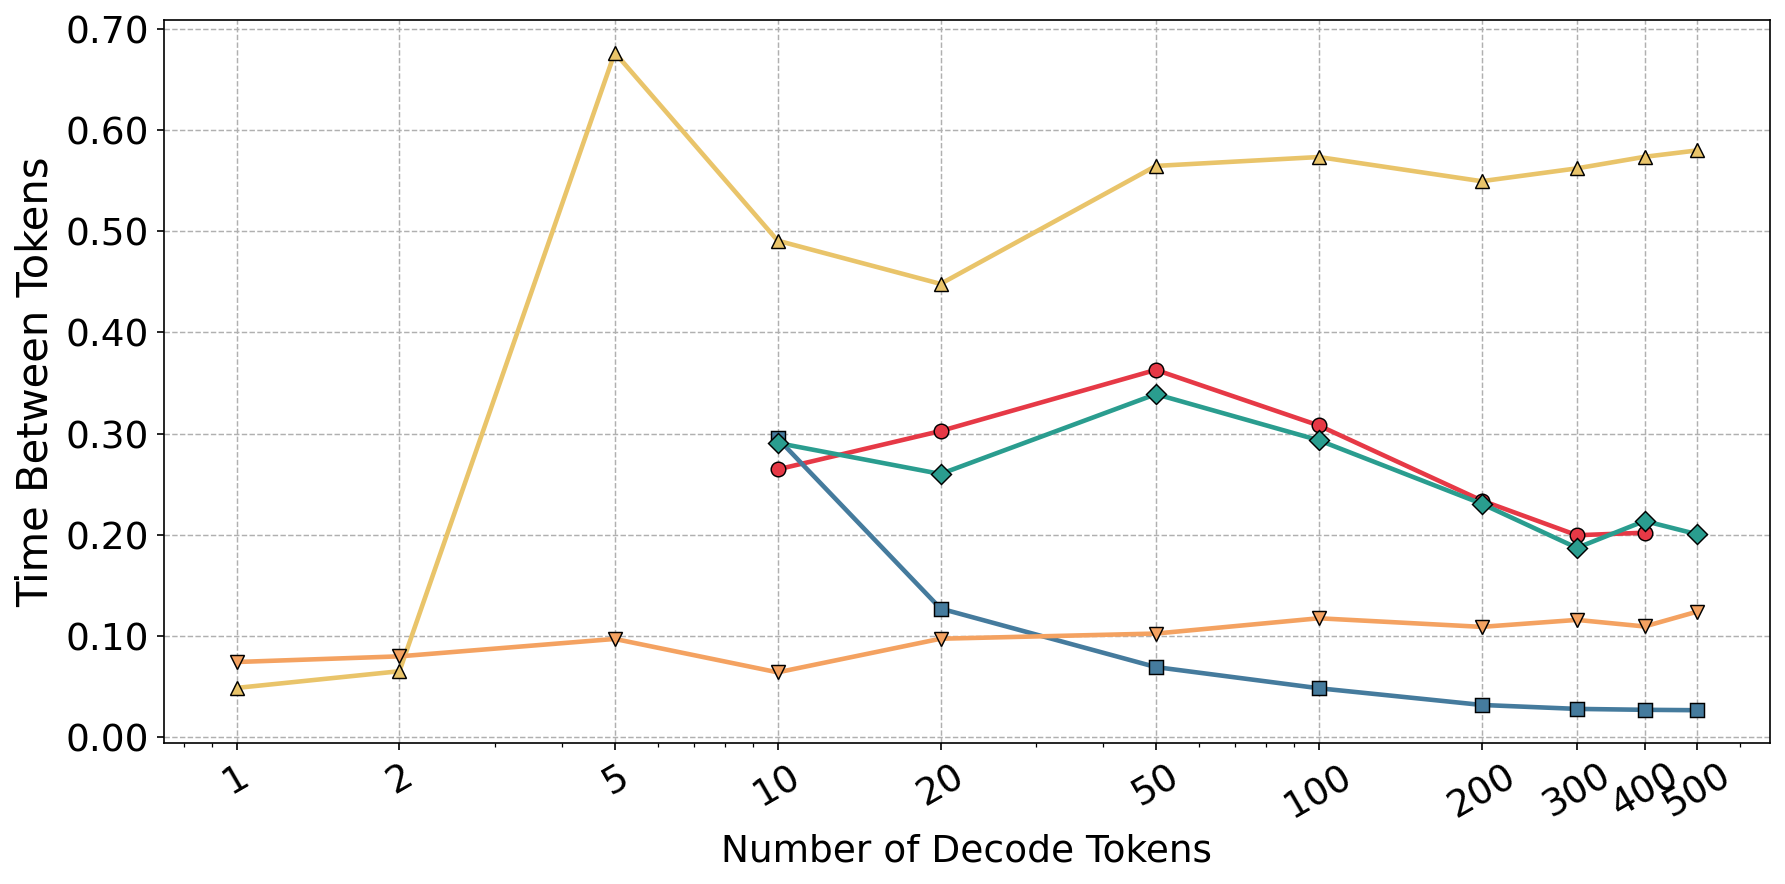
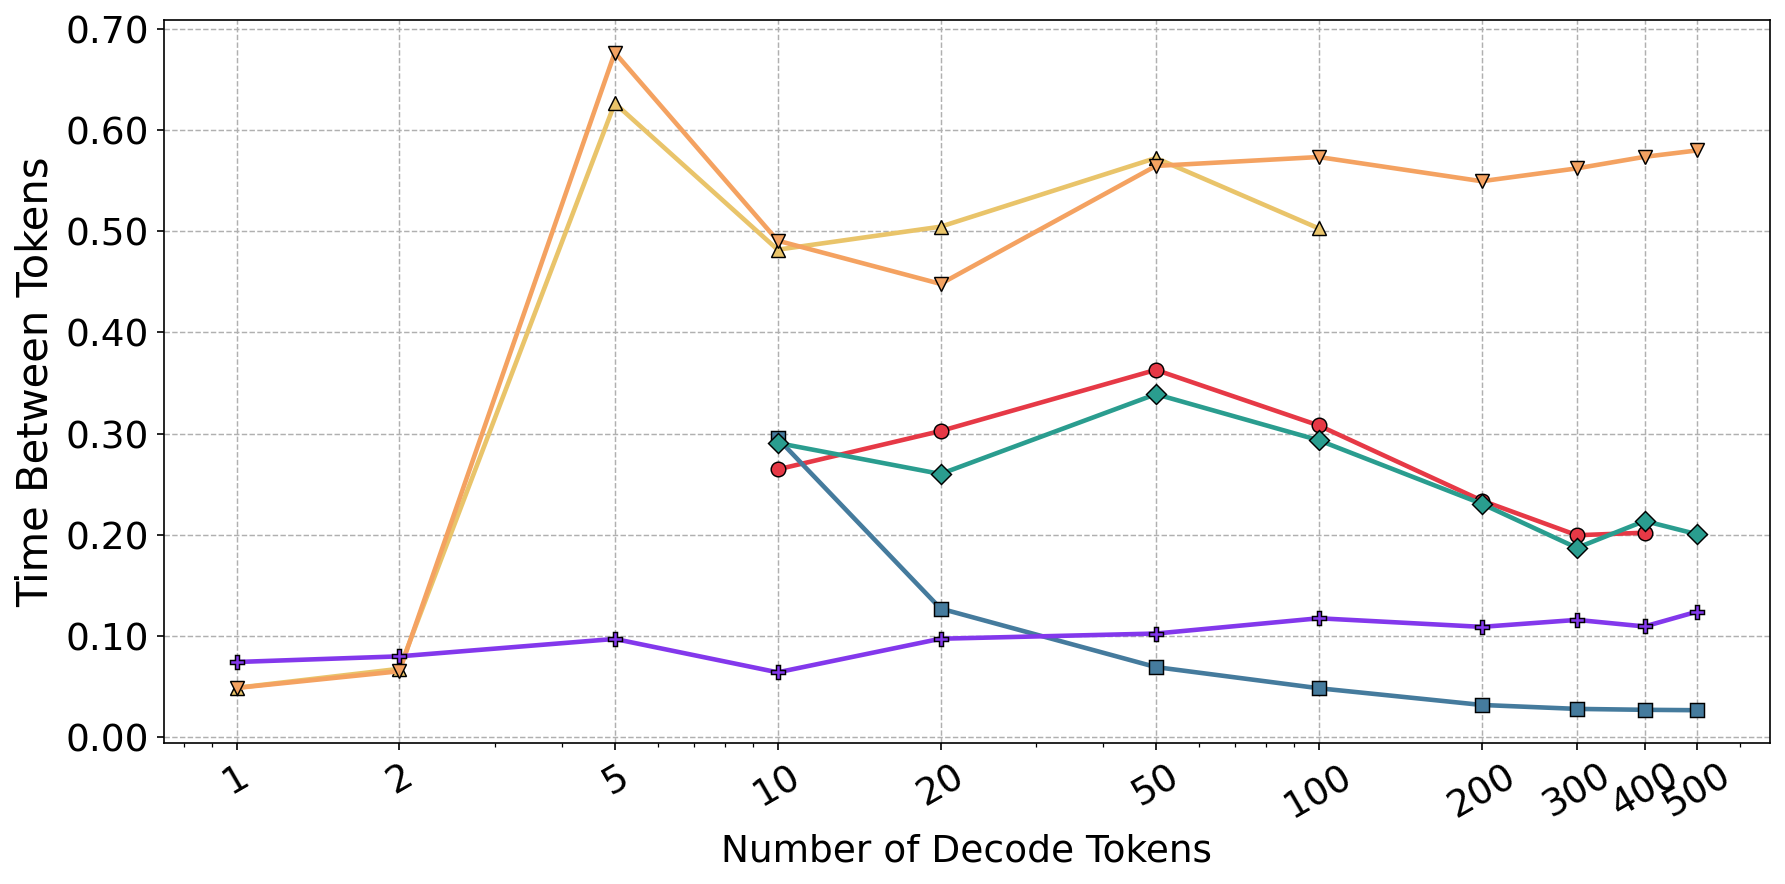
DB added in decode plots

diff --git a/code/vllm/decode_tokens_logs/plot.py b/code/vllm/decode_tokens_logs/plot.py
@@ -101,6 +101,8 @@ for path in log_files:
         policy = "LPM"
     if policy == "fcfs":
         policy = "FCFS"
+    if policy == "dynamic_batching":
+        policy = "DB"
     if policy == "chunked_hash_tree_bandit":
         policy = "Feather"
     if policy == "chunked_hash_tree_heuristic":
